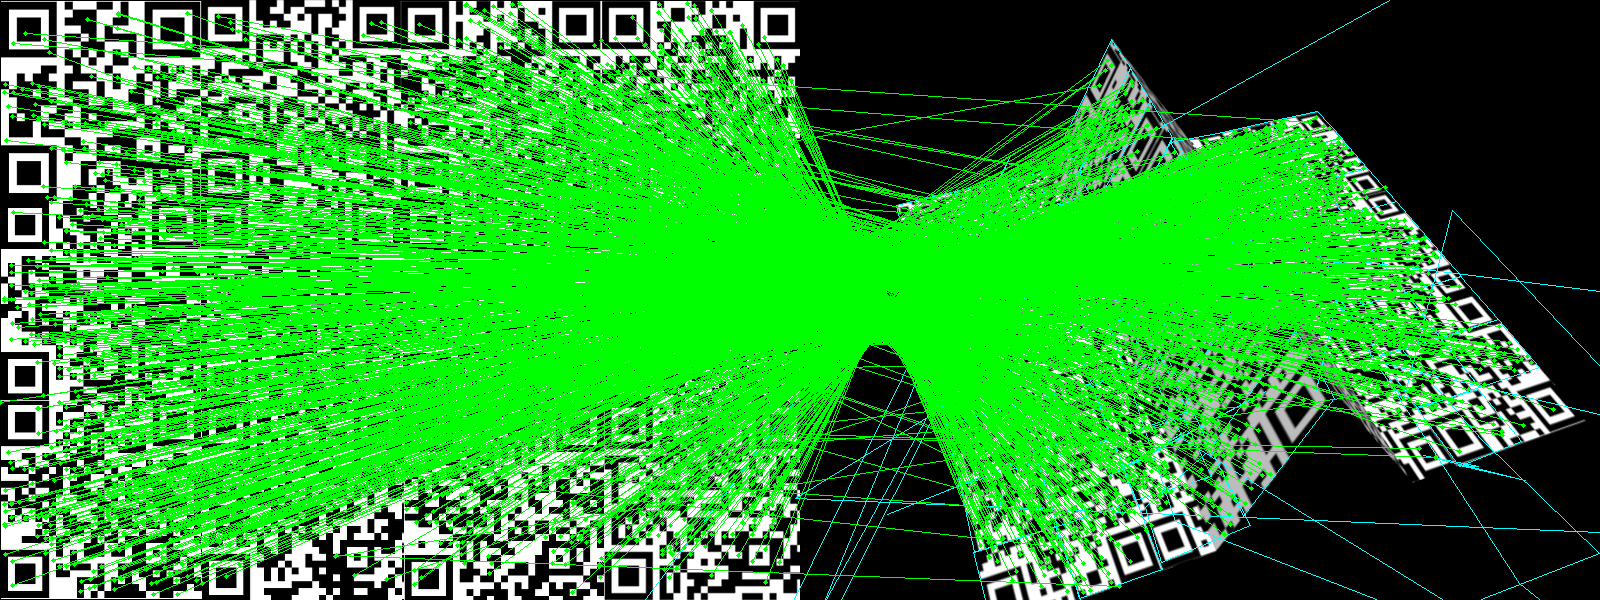
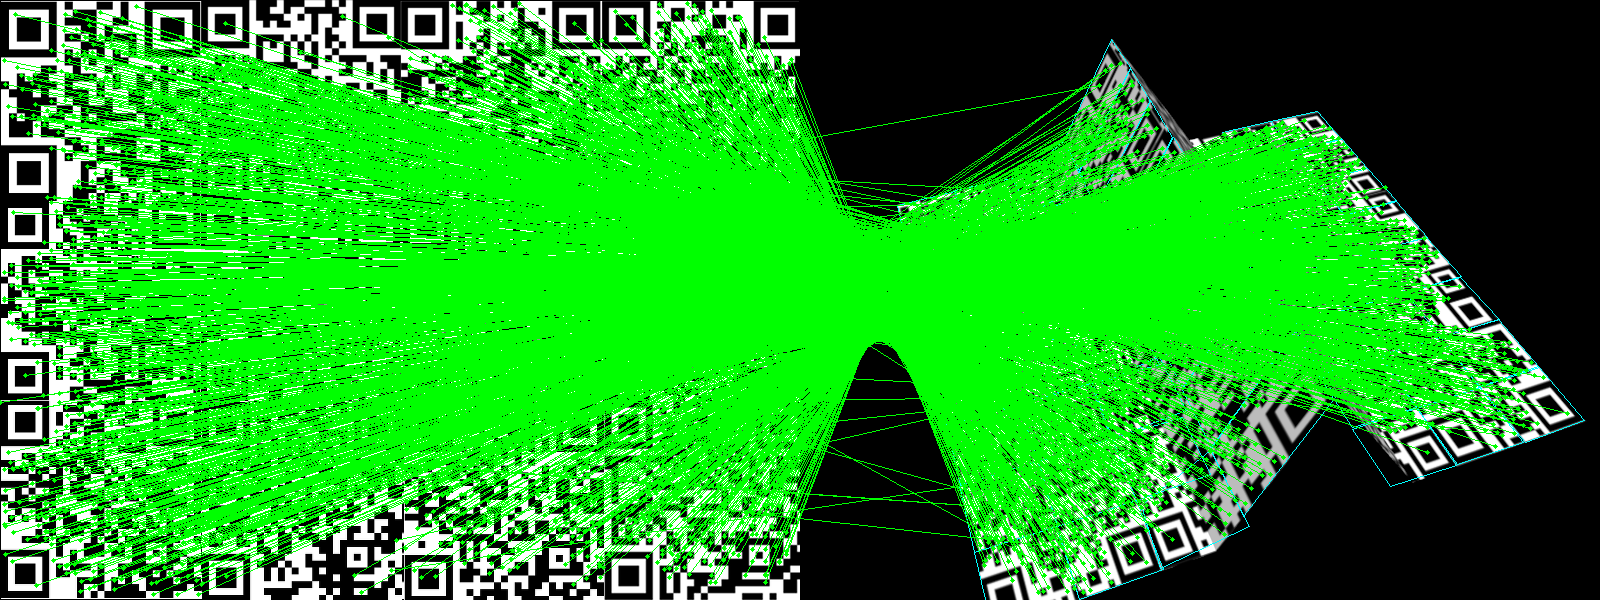
path deal with os

diff --git a/make_database/split_affinesim.py b/make_database/split_affinesim.py
@@ -60,22 +60,22 @@ def split_kd(keypoints, descrs, splt_num):
 
     return splits_k, splits_d
 
-def affine_detect_into_mesh(detector, split_num, img1, mask=None, pool=None):
-    kp, desc = affine_detect(detector, img1, mask, pool=pool)
+def affine_detect_into_mesh(detector, split_num, img1, mask=None, pool=None, simu_param='default'):
+    kp, desc = affine_detect(detector, img1, mask, pool=pool, simu_param=simu_param)
     return split_kd(kp, desc, split_num)
 
-def match_with_cross(matcher, meshList_descT, meshList_kpT, descQ, kpQ):
-    meshList_pT = []
+def match_with_cross(matcher, meshList_descQ, meshList_kpQ, descT, kpT):
     meshList_pQ = []
+    meshList_pT = []
     meshList_pairs = []
-    for mesh_kpT, mesh_descT in zip(meshList_kpT, meshList_descT):
-        raw_matchesTQ = matcher.knnMatch(descQ, trainDescriptors=mesh_descT, k=2)
-        raw_matchesQT = matcher.knnMatch(mesh_descT, trainDescriptors=descQ, k=2)
-        pT, pQ, pairs = c_filter(mesh_kpT, kpQ, raw_matchesTQ, raw_matchesQT)
+    for mesh_kpQ, mesh_descQ in zip(meshList_kpQ, meshList_descQ):
+        raw_matchesQT = matcher.knnMatch(mesh_descQ, trainDescriptors=descT, k=2)
+        raw_matchesTQ = matcher.knnMatch(descT, trainDescriptors=mesh_descQ, k=2)
+        pQ, pT, pairs = c_filter(mesh_kpQ, kpT, raw_matchesQT, raw_matchesTQ)
         meshList_pT.append(pT)
         meshList_pQ.append(pQ)
         meshList_pairs.append(pairs)
-    return meshList_pT, meshList_pQ, meshList_pairs
+    return meshList_pQ, meshList_pT, meshList_pairs
 
 if __name__ == '__main__':
     print(__doc__)
@@ -87,18 +87,19 @@ if __name__ == '__main__':
     try:
         fn1, fn2 = args
     except:
-        fn1 = '/home/tiwasaki/PycharmProjects/makeDB/inputs/templates/qrmarker.png'
-        fn2 = '/home/tiwasaki/PycharmProjects/makeDB/inputs/test/mltf_qrmarker/smpl_1.414214_152.735065.png'
+        import os.path
+        fn1 = os.path.abspath('../../data/templates/qrmarker.png')
+        fn2 = os.path.abspath('../../data/inputs/unittest/smpl_1.414214_152.735065.png')
 
-    img1 = cv2.imread(fn1, 0)
-    img2 = cv2.imread(fn2, 0)
+    imgQ = cv2.imread(fn1, 0)
+    imgT = cv2.imread(fn2, 0)
     detector, matcher = init_feature(feature_name)
 
-    if img1 is None:
+    if imgQ is None:
         print('Failed to load fn1:', fn1)
         sys.exit(1)
 
-    if img2 is None:
+    if imgT is None:
         print('Failed to load fn2:', fn2)
         sys.exit(1)
 
@@ -109,46 +110,41 @@ if __name__ == '__main__':
     splt_num = 64
     print('using', feature_name)
     pool = ThreadPool(processes=cv2.getNumberOfCPUs())
-    kp1, desc1 = affine_detect(detector, img1, pool=pool, simu_param='default')
-    s_kp, s_desc = split_kd(kp1, desc1, splt_num)
-    kp2, desc2 = affine_detect(detector, img2, pool=pool, simu_param='test')
+    splt_kpQ, splt_descQ = affine_detect_into_mesh(detector, splt_num, imgQ, simu_param='default')
+    kpT, descT = affine_detect(detector, imgT, pool=pool, simu_param='test')
     len_s_kp = 0
-    for kps in s_kp:
+    for kps in splt_kpQ:
         len_s_kp += len(kps)
-    print('img1 - %d features, img2 - %d features' % (len_s_kp, len(kp2)))
+    print('img1 - %d features, img2 - %d features' % (len_s_kp, len(kpT)))
 
     with Timer('matching'):
-        mesh_pT, mesh_pQ, mesh_pairs = match_with_cross(matcher, s_desc, s_kp, desc2, kp2)
+        mesh_pQ, mesh_pT, mesh_pairs = match_with_cross(matcher, splt_descQ, splt_kpQ, descT, kpT)
 
     Hs = []
     statuses = []
     kp_pairs_long = []
-    for pT, pQ, pairs in zip(mesh_pT, mesh_pQ, mesh_pairs):
-        pairs, H, status = calclate_Homography(pT, pQ, pairs)
+    Hs_stable = []
+    kp_pairs_long_stable = []
+    for pQ, pT, pairs in zip(mesh_pQ, mesh_pT, mesh_pairs):
+        pairs, H, status = calclate_Homography(pQ, pT, pairs)
         Hs.append(H)
         statuses.append(status)
+        if np.sum(status)/len(status) >= 0.4:
+            Hs_stable.append(H)
+        else:
+            Hs_stable.append(None)
         for p in pairs:
             kp_pairs_long.append(p)
 
-    vis = draw_matches_for_meshes(img1, img2, Hs=Hs)
+    vis = draw_matches_for_meshes(imgQ, imgT, Hs=Hs)
     cv2.imshow('view weak meshes', vis)
     cv2.imwrite('qr1_meshes.png', vis)
 
-
-    HsS = []
-    statusesS = []
-    kp_pairs_longS = []
-    for pT, pQ, pairs in zip(mesh_pT, mesh_pQ, mesh_pairs):
-        pairs, H, status = calclate_Homography_hard(pT, pQ, pairs)
-        HsS.append(H)
-        statusesS.append(status)
-        for p in pairs:
-            kp_pairs_longS.append(p)
-    visS = draw_matches_for_meshes(img1, img2, Hs=HsS)
+    visS = draw_matches_for_meshes(imgQ, imgT, Hs=Hs_stable)
     cv2.imshow('view stable meshes', visS)
     cv2.imwrite('qr1_meshes_stable.png', visS)
 
-    viw = explore_match_for_meshes('affine find_obj', img1, img2, kp_pairs_long, Hs=Hs)
+    viw = explore_match_for_meshes('affine find_obj', imgQ, imgT, kp_pairs_long, Hs=Hs_stable)
     cv2.imwrite('qr1_mesh_line.png', viw)
     cv2.waitKey()
     cv2.destroyAllWindows()

diff --git a/commons/custom_find_obj.py b/commons/custom_find_obj.py
@@ -24,7 +24,7 @@ from commons.template_info import TemplateInfo as TmpInf
 from commons.common import anorm
 
 
-def filter_matches_wcross(kp_T, kp_Q, matchesTQ, matchesQT, ratio=0.75):
+def filter_matches_wcross(kp_Q, kp_T, matchesQT, matchesTQ, ratio=0.75):
     """
     filtering matches with cross check
     :param kp_T: Train keypoints
@@ -45,13 +45,13 @@ def filter_matches_wcross(kp_T, kp_Q, matchesTQ, matchesQT, ratio=0.75):
         return dmatches
 
     def ratiotest_cross(matches):
-        mkp1, mkp2 = [], []
+        mkpT, mkpQ = [], []
         for m in matches:
             if len(m) == 2 and m[0].distance < m[1].distance * ratio:
                 m = m[0]
-                mkp1.append(kp_T[m.trainIdx])
-                mkp2.append(kp_Q[m.queryIdx])
-        return mkp1, mkp2
+                mkpT.append(kp_T[m.trainIdx])
+                mkpQ.append(kp_Q[m.queryIdx])
+        return mkpT, mkpQ
 
     def crosscheck(dmatchesTQ, dmatchesQT):
         """Dont Use"""
@@ -66,13 +66,13 @@ def filter_matches_wcross(kp_T, kp_Q, matchesTQ, matchesQT, ratio=0.75):
                 mkp2.append(kp_Q[forward.queryIdx])
         return mkp1, mkp2
 
-    def crossCheck(dmatchesTQ, dmatchesQT):
+    def crossCheck(dmatchesQT, dmatchesTQ):
         crossOK = []
-        for forward in dmatchesTQ:
-            if len(dmatchesQT) <= forward[0].trainIdx:
-                print('TQ.length = %d, QT.length = %d' % (len(dmatchesTQ), len(dmatchesQT)))
-                print('TQ.t=%d, TQ.q=%d' % (forward[0].trainIdx, forward[0].queryIdx))
-            backward = dmatchesQT[forward[0].trainIdx]
+        for forward in dmatchesQT:
+            if len(dmatchesTQ) <= forward[0].trainIdx:
+                print('QT.length = %d, TQ.length = %d' % (len(dmatchesQT), len(dmatchesTQ)))
+                print('QT.t=%d, TQ.q=%d' % (forward[0].trainIdx, forward[0].queryIdx))
+            backward = dmatchesTQ[forward[0].trainIdx]
             if backward[0].trainIdx == forward[0].queryIdx:
                 crossOK.append(forward)
         return crossOK
@@ -80,12 +80,12 @@ def filter_matches_wcross(kp_T, kp_Q, matchesTQ, matchesQT, ratio=0.75):
     # dmatches12 = ratiotest(matchesTQ)
     # dmatches21 = ratiotest(matchesQT)
     # mkp1, mkp2 = crosscheck(dmatches12, dmatches21)
-    dmatches_cross = crossCheck(matchesTQ, matchesQT)
-    mkp1, mkp2 = ratiotest_cross(dmatches_cross)
-    p1 = np.float32([kp.pt for kp in mkp1])
-    p2 = np.float32([kp.pt for kp in mkp2])
-    kp_pairs = zip(mkp1, mkp2)
-    return p1, p2, list(kp_pairs)
+    dmatches_cross = crossCheck(matchesQT, matchesTQ)
+    match_kpT, match_kpQ = ratiotest_cross(dmatches_cross)
+    pT = np.float32([kp.pt for kp in match_kpT])
+    pQ = np.float32([kp.pt for kp in match_kpQ])
+    kp_pairsQT = zip(match_kpQ, match_kpT)
+    return pQ, pT, list(kp_pairsQT)
 
 
 def explore_meshes(imgT, Hs=None):
@@ -124,9 +124,9 @@ def explore_match_for_meshes(win, imgT, imgQ, kp_pairs, status=None, Hs=None):
     vis[:h1, :w1] = imgT
     vis[:h2, w1:w1 + w2] = imgQ
     vis = cv2.cvtColor(vis, cv2.COLOR_GRAY2BGR)
-    vis0 = vis.copy()
 
     vis = draw_matches_for_meshes(imgT, imgQ,  Hs, vis)
+    vis0 = vis.copy()
     p1, p2 = [], []  # python 2 / python 3 change of zip unpacking
     for kpp in kp_pairs:
         p1.append(np.int32(kpp[0].pt))
@@ -185,7 +185,7 @@ def explore_match_for_meshes(win, imgT, imgQ, kp_pairs, status=None, Hs=None):
 def calclate_Homography(pT, pQ, pairs):
     if len(pQ) >= 4:
         H, status = cv2.findHomography(pT, pQ, cv2.RANSAC, 5.0)
-        print('%d / %d  inliers/matched' % (np.sum(status), len(status)))
+        print("{0} / {1} = {2:0.3f} inliers/matched=ratio".format(np.sum(status), len(status), np.sum(status)/len(status)))
         # do not draw outliers (there will be a lot of them)
         pairs = [kpp for kpp, flag in zip(pairs, status) if flag]
     else:
